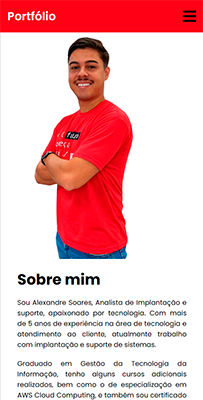
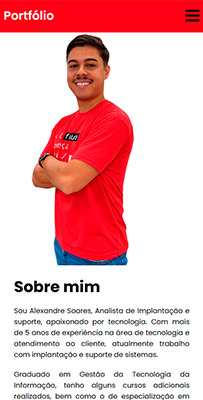
Ajuste na seção sobre

Changed region(s): [[0.0591, 0.06, 0.9458, 1.0], [0.0, 0.0, 0.2956, 0.06], [0.8867, 0.0, 1.0, 0.06]]

diff --git a/index.html b/index.html
@@ -111,22 +111,54 @@
             <h1>Sobre mim</h1>
 
             <p>
-                Sou Alexandre Soares, Analista de Implantação e suporte, apaixonado por tecnologia. Com mais de 5 anos de experiência na área de tecnologia e atendimento ao cliente, atualmente trabalho com implantação e suporte de sistemas.
+                Sou Alexandre Soares, com mais de 7 anos de experiência na área de tecnologia, atuo como Analista de Implantação e Suporte, especializado em garantir a implementação eficiente e o funcionamento contínuo de sistemas. Minhas habilidades abrangem desde o levantamento de requisitos e análise de processos até a parametrização de sistemas, treinamento de usuários e suporte técnico pós-implantação.
             </p>
 
             <p>
-                Graduado em Gestão da Tecnologia da Informação, tenho alguns cursos adicionais realizados, bem como o de especialização em AWS Cloud Computing, e também sou certificado pela Amazon Web Services. Tenho como hobbie programar e estou cursando atualmente Python, com foco principalmente em automação de tarefas com AWS e análise de dados.
+                Graduado em Gestão da Tecnologia da Informação, possuo cursos adicionais, incluindo uma especialização em AWS Cloud Computing, e sou certificado pela Amazon Web Services. Como hobby, dedico-me à programação e infraestrutura em nuvem, atualmente estou estudando DevOps e Python, com foco em automação de tarefas utilizando AWS e análise de dados.
             </p>
 
             <p>
-                Estou sempre em busca de novos desafios, além de sempre querer aprender mais para o melhor desenvolvimento profissional e pessoal.
+                Estou constantemente em busca de novos desafios e oportunidades para aprender, visando tanto o desenvolvimento profissional quanto o crescimento pessoal. Acredito na importância do aprendizado contínuo e na colaboração com equipes multidisciplinares para alcançar resultados excepcionais. Meu objetivo é contribuir para o sucesso de projetos, garantindo a satisfação dos usuários e a eficiência dos sistemas implementados.
+            </p>
+
+            <p>
+                Entre as minhas principais competências, destaco:
+            </p>
+
+            <p>
+                Elaboração de planos detalhados para a implementação de sistemas, incluindo cronogramas, alocação de recursos e definição das etapas necessárias.
+            </p>
+
+            <p>
+                Levantamento e documentação das necessidades dos usuários, bem como das especificações funcionais do sistema.
+            </p>
+
+            <p>
+                Análise de processos e funcionalidades do sistema, identificando oportunidades de melhoria e adequações necessárias.
+            </p>
+
+            <p>
+                Parametrização do sistema de acordo com os requisitos levantados, assegurando a qualidade e a segurança dos dados.
+            </p>
+
+            <p>
+                Planejamento, implantação, treinamentos e suporte técnico aos usuários do sistema, orientando sobre operações e funcionalidades disponíveis.
+            </p>
+
+            <p>
+                Suporte remoto pós-implantação, oferecendo assistência contínua para resolução de problemas e garantia do funcionamento adequado do sistema.
+            </p>
+
+            <p>
+                Coleta de feedback dos usuários e colaboração com a equipe de desenvolvimento para implementação de melhorias contínuas no sistema.
             </p>
         </div>
     </section>
     <!-- /sobre section -->
 
     <footer>
-        <p>Copyright &copy; 2024 by &lt;/Alexandre Soares&gt;.</p>
+        <p>Copyright &copy; 2024 - Alexandre Soares</p>
     </footer>
 </body>
 <script src="js/script.js"></script>
